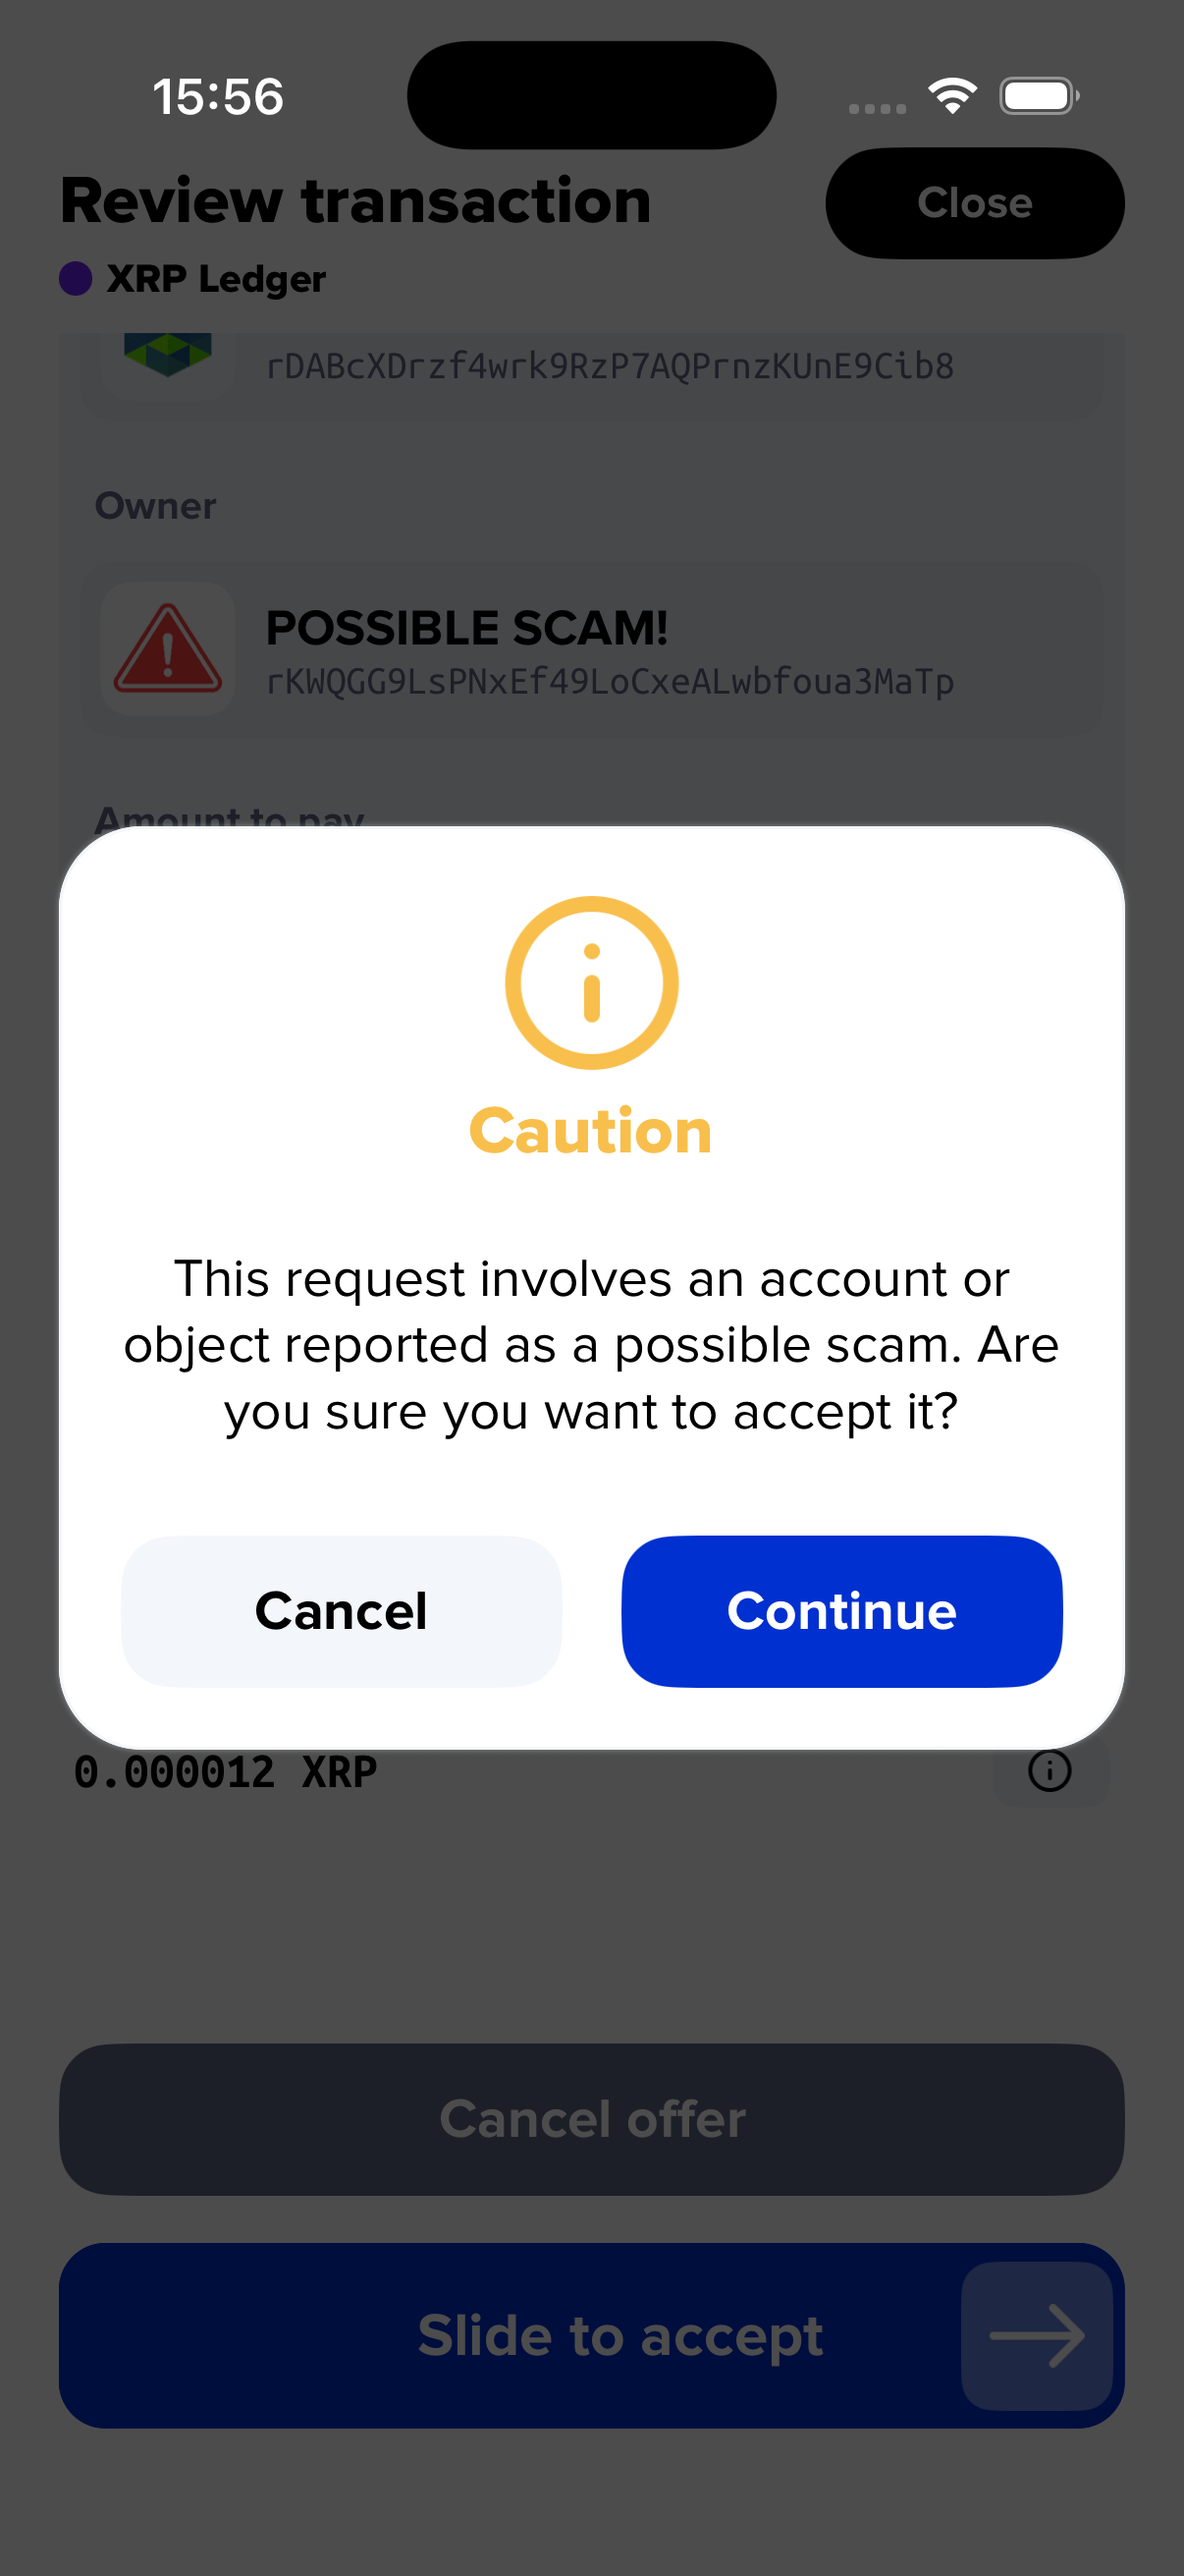
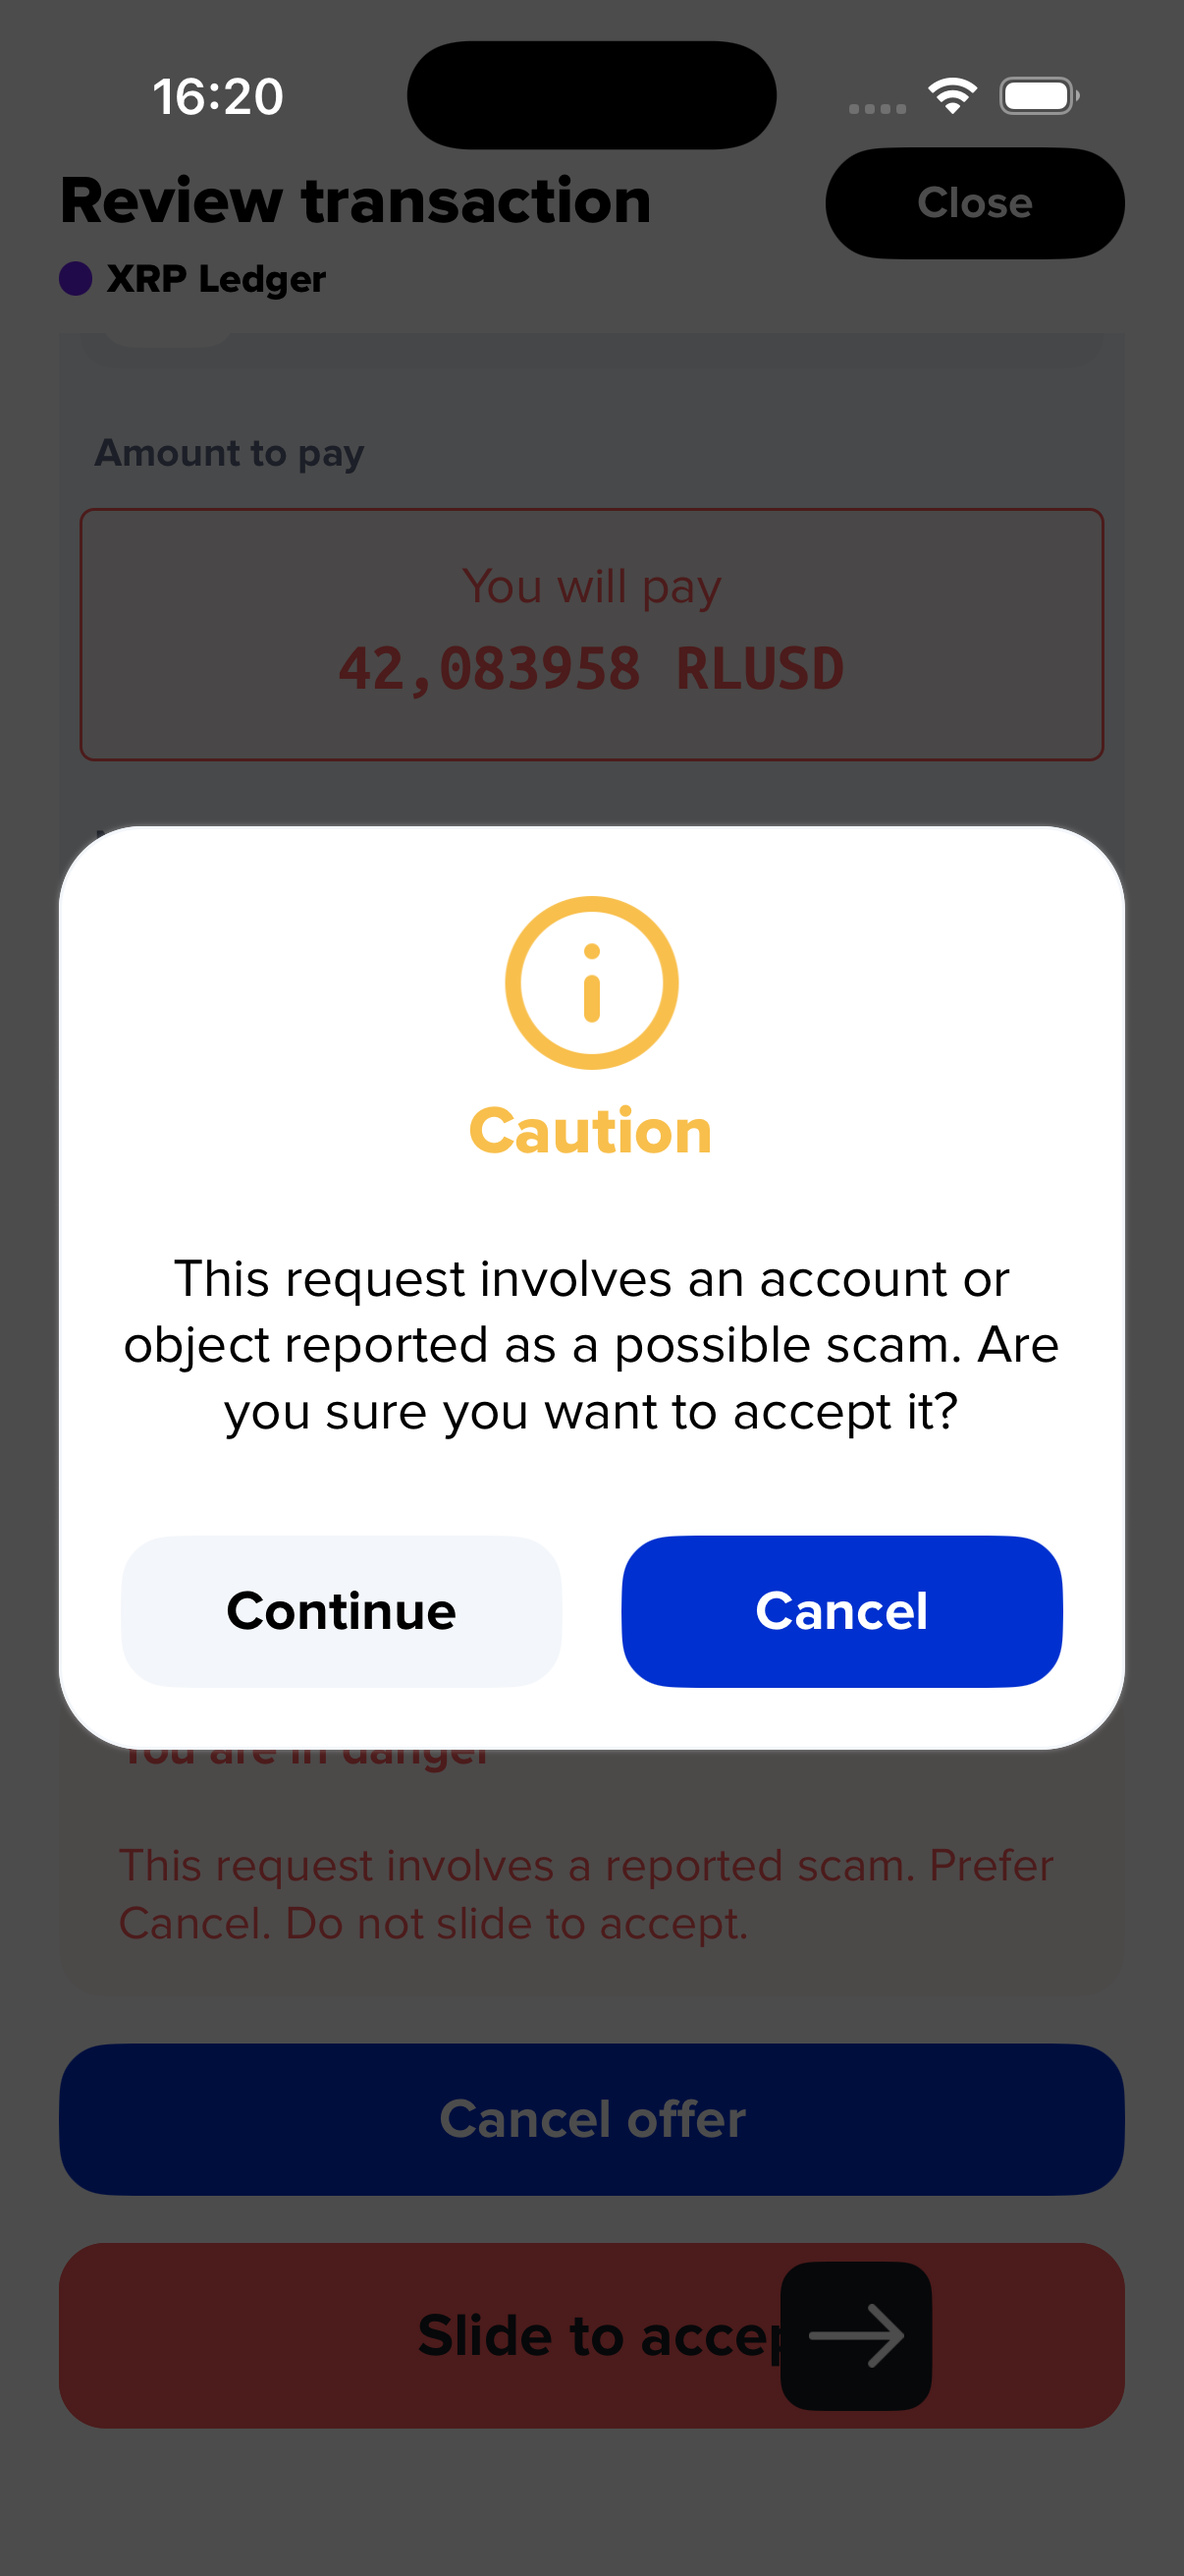
fix: put solid Cancel on the right of the scam caution dialog
Break the usual continue-on-the-right habit. Continue stays light on
the left. Also cover a clean payment/accept-offer so non-scam reviews
do not get the danger banner or cancel CTA.

diff --git a/src/screens/Modal/ReviewTransaction/__tests__/scamRejectAction.test.ts b/src/screens/Modal/ReviewTransaction/__tests__/scamRejectAction.test.ts
@@ -8,6 +8,7 @@ import {
     isScamDanger,
     isScamImageUrl,
     resolveScamSignRequest,
+    SCAM_ACCEPT_CONFIRM_BUTTONS,
     ScamSignRequestLookup,
 } from '../scamRejectAction';
 
@@ -59,6 +60,15 @@ const lookupFor = (
 };
 
 describe('scamRejectAction', () => {
+    describe('scam accept confirm buttons', () => {
+        it('puts light Continue on the left and solid Cancel on the right', () => {
+            expect(SCAM_ACCEPT_CONFIRM_BUTTONS.map(({ action, light }) => ({ action, light }))).toEqual([
+                { action: 'continue', light: true },
+                { action: 'dismiss', light: false },
+            ]);
+        });
+    });
+
     describe('isScamDanger', () => {
         it('treats probable and confirmed advisory as scam', () => {
             expect(isScamDanger('CONFIRMED')).toBe(true);
@@ -215,6 +225,35 @@ describe('scamRejectAction', () => {
 
             expect(result.isScam).toBe(true);
             expect(result.cancelCraft).toBeUndefined();
+        });
+
+        it('does not flag a clean payment or a clean accept-offer', async () => {
+            const payment = await resolveScamSignRequest(
+                {
+                    Type: TransactionTypes.Payment,
+                    Account: UNRELATED_ACCOUNT,
+                    Destination: 'rPEPPER7kfTD9w2To4CQk6UCfuHM9c6GDY',
+                },
+                UNRELATED_ACCOUNT,
+                false,
+                lookupFor({
+                    advisoryByAddress: { rPEPPER7kfTD9w2To4CQk6UCfuHM9c6GDY: 'NONE' },
+                }),
+            );
+            expect(payment.isScam).toBe(false);
+            expect(payment.cancelCraft).toBeUndefined();
+
+            const accept = await resolveScamSignRequest(
+                acceptTx,
+                LIVE_SCAM_OFFER.Destination,
+                false,
+                lookupFor({
+                    advisoryByAddress: { [LIVE_SCAM_OFFER.Owner]: 'NONE' },
+                    nftImage: 'https://cdn.xaman.app/normal.png',
+                }),
+            );
+            expect(accept.isScam).toBe(false);
+            expect(accept.cancelCraft).toBeUndefined();
         });
 
         it('also flags via a scam NFT image URL from backend details', async () => {

diff --git a/src/screens/Modal/ReviewTransaction/Steps/Review/ReviewStep.tsx b/src/screens/Modal/ReviewTransaction/Steps/Review/ReviewStep.tsx
@@ -27,7 +27,7 @@ import Localize from '@locale';
 
 import { AppStyles } from '@theme';
 import styles from './styles';
-import { CancelCraft, resolveScamSignRequest } from '../../scamRejectAction';
+import { CancelCraft, resolveScamSignRequest, SCAM_ACCEPT_CONFIRM_BUTTONS } from '../../scamRejectAction';
 
 // transaction templates
 import * as GenuineTransactionTemplates from './Templates/genuine';
@@ -136,18 +136,21 @@ class ReviewStep extends Component<Props, State> {
             type: 'warning',
             title: Localize.t('global.alertDanger'),
             text: Localize.t('payload.scamAcceptConfirm'),
-            buttons: [
-                {
-                    text: Localize.t('global.cancel'),
-                    type: 'dismiss',
-                    light: true,
-                },
-                {
-                    text: Localize.t('global.continue'),
-                    onPress: onAccept,
-                    light: false,
-                },
-            ],
+            buttons: SCAM_ACCEPT_CONFIRM_BUTTONS.map((button) =>
+                button.action === 'continue'
+                    ? {
+                          testID: button.testID,
+                          text: Localize.t('global.continue'),
+                          onPress: onAccept,
+                          light: button.light,
+                      }
+                    : {
+                          testID: button.testID,
+                          text: Localize.t('global.cancel'),
+                          type: 'dismiss' as const,
+                          light: button.light,
+                      },
+            ),
         });
     };
 

diff --git a/src/screens/Modal/ReviewTransaction/scamRejectAction.ts b/src/screens/Modal/ReviewTransaction/scamRejectAction.ts
@@ -3,6 +3,12 @@ import { TransactionJson } from '@common/libs/ledger/types/transaction';
 
 export const SCAM_DANGER_LEVELS = ['PROBABLE', 'HIGH_PROBABILITY', 'CONFIRMED'];
 
+// Continue is left/light, Cancel is right/solid so a habitual right-tap backs out.
+export const SCAM_ACCEPT_CONFIRM_BUTTONS = [
+    { action: 'continue', light: true, testID: 'scam-accept-continue-button' },
+    { action: 'dismiss', light: false, testID: 'scam-accept-cancel-button' },
+] as const;
+
 export type CancelCraft = {
     txJson: TransactionJson;
     labelKey: 'cancelOffer' | 'cancelCheck' | 'cancelEscrow';
